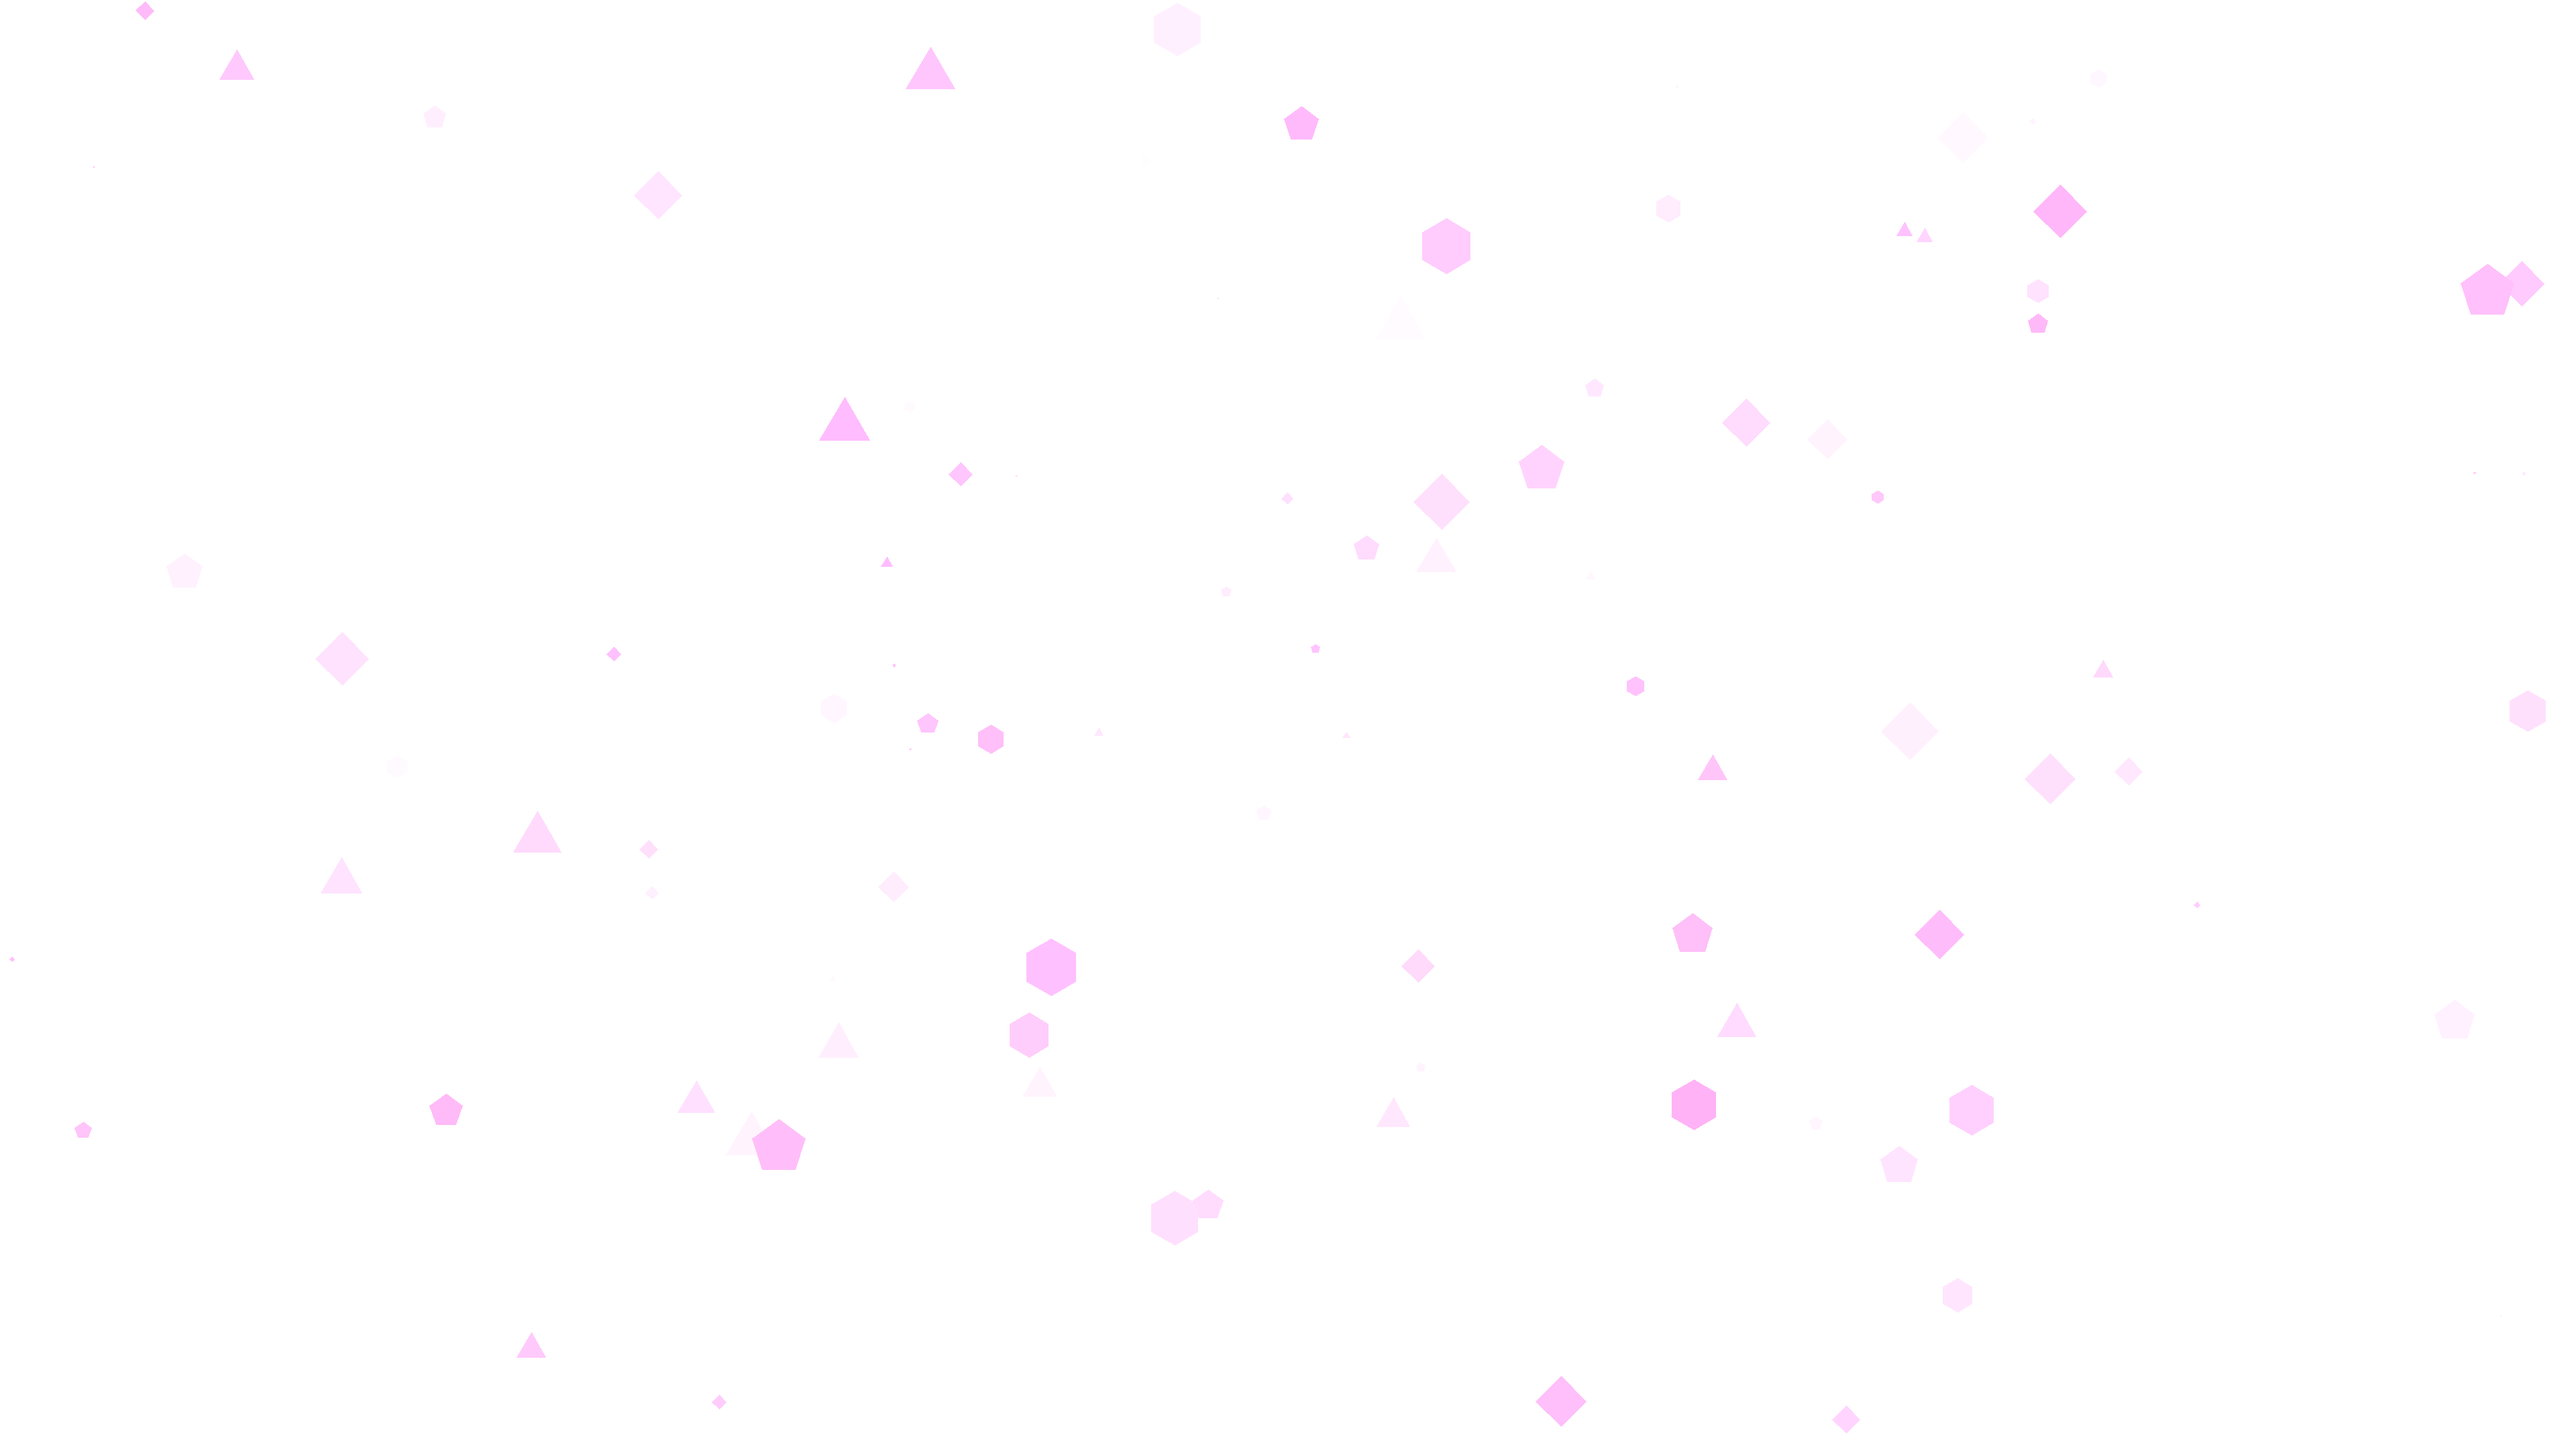
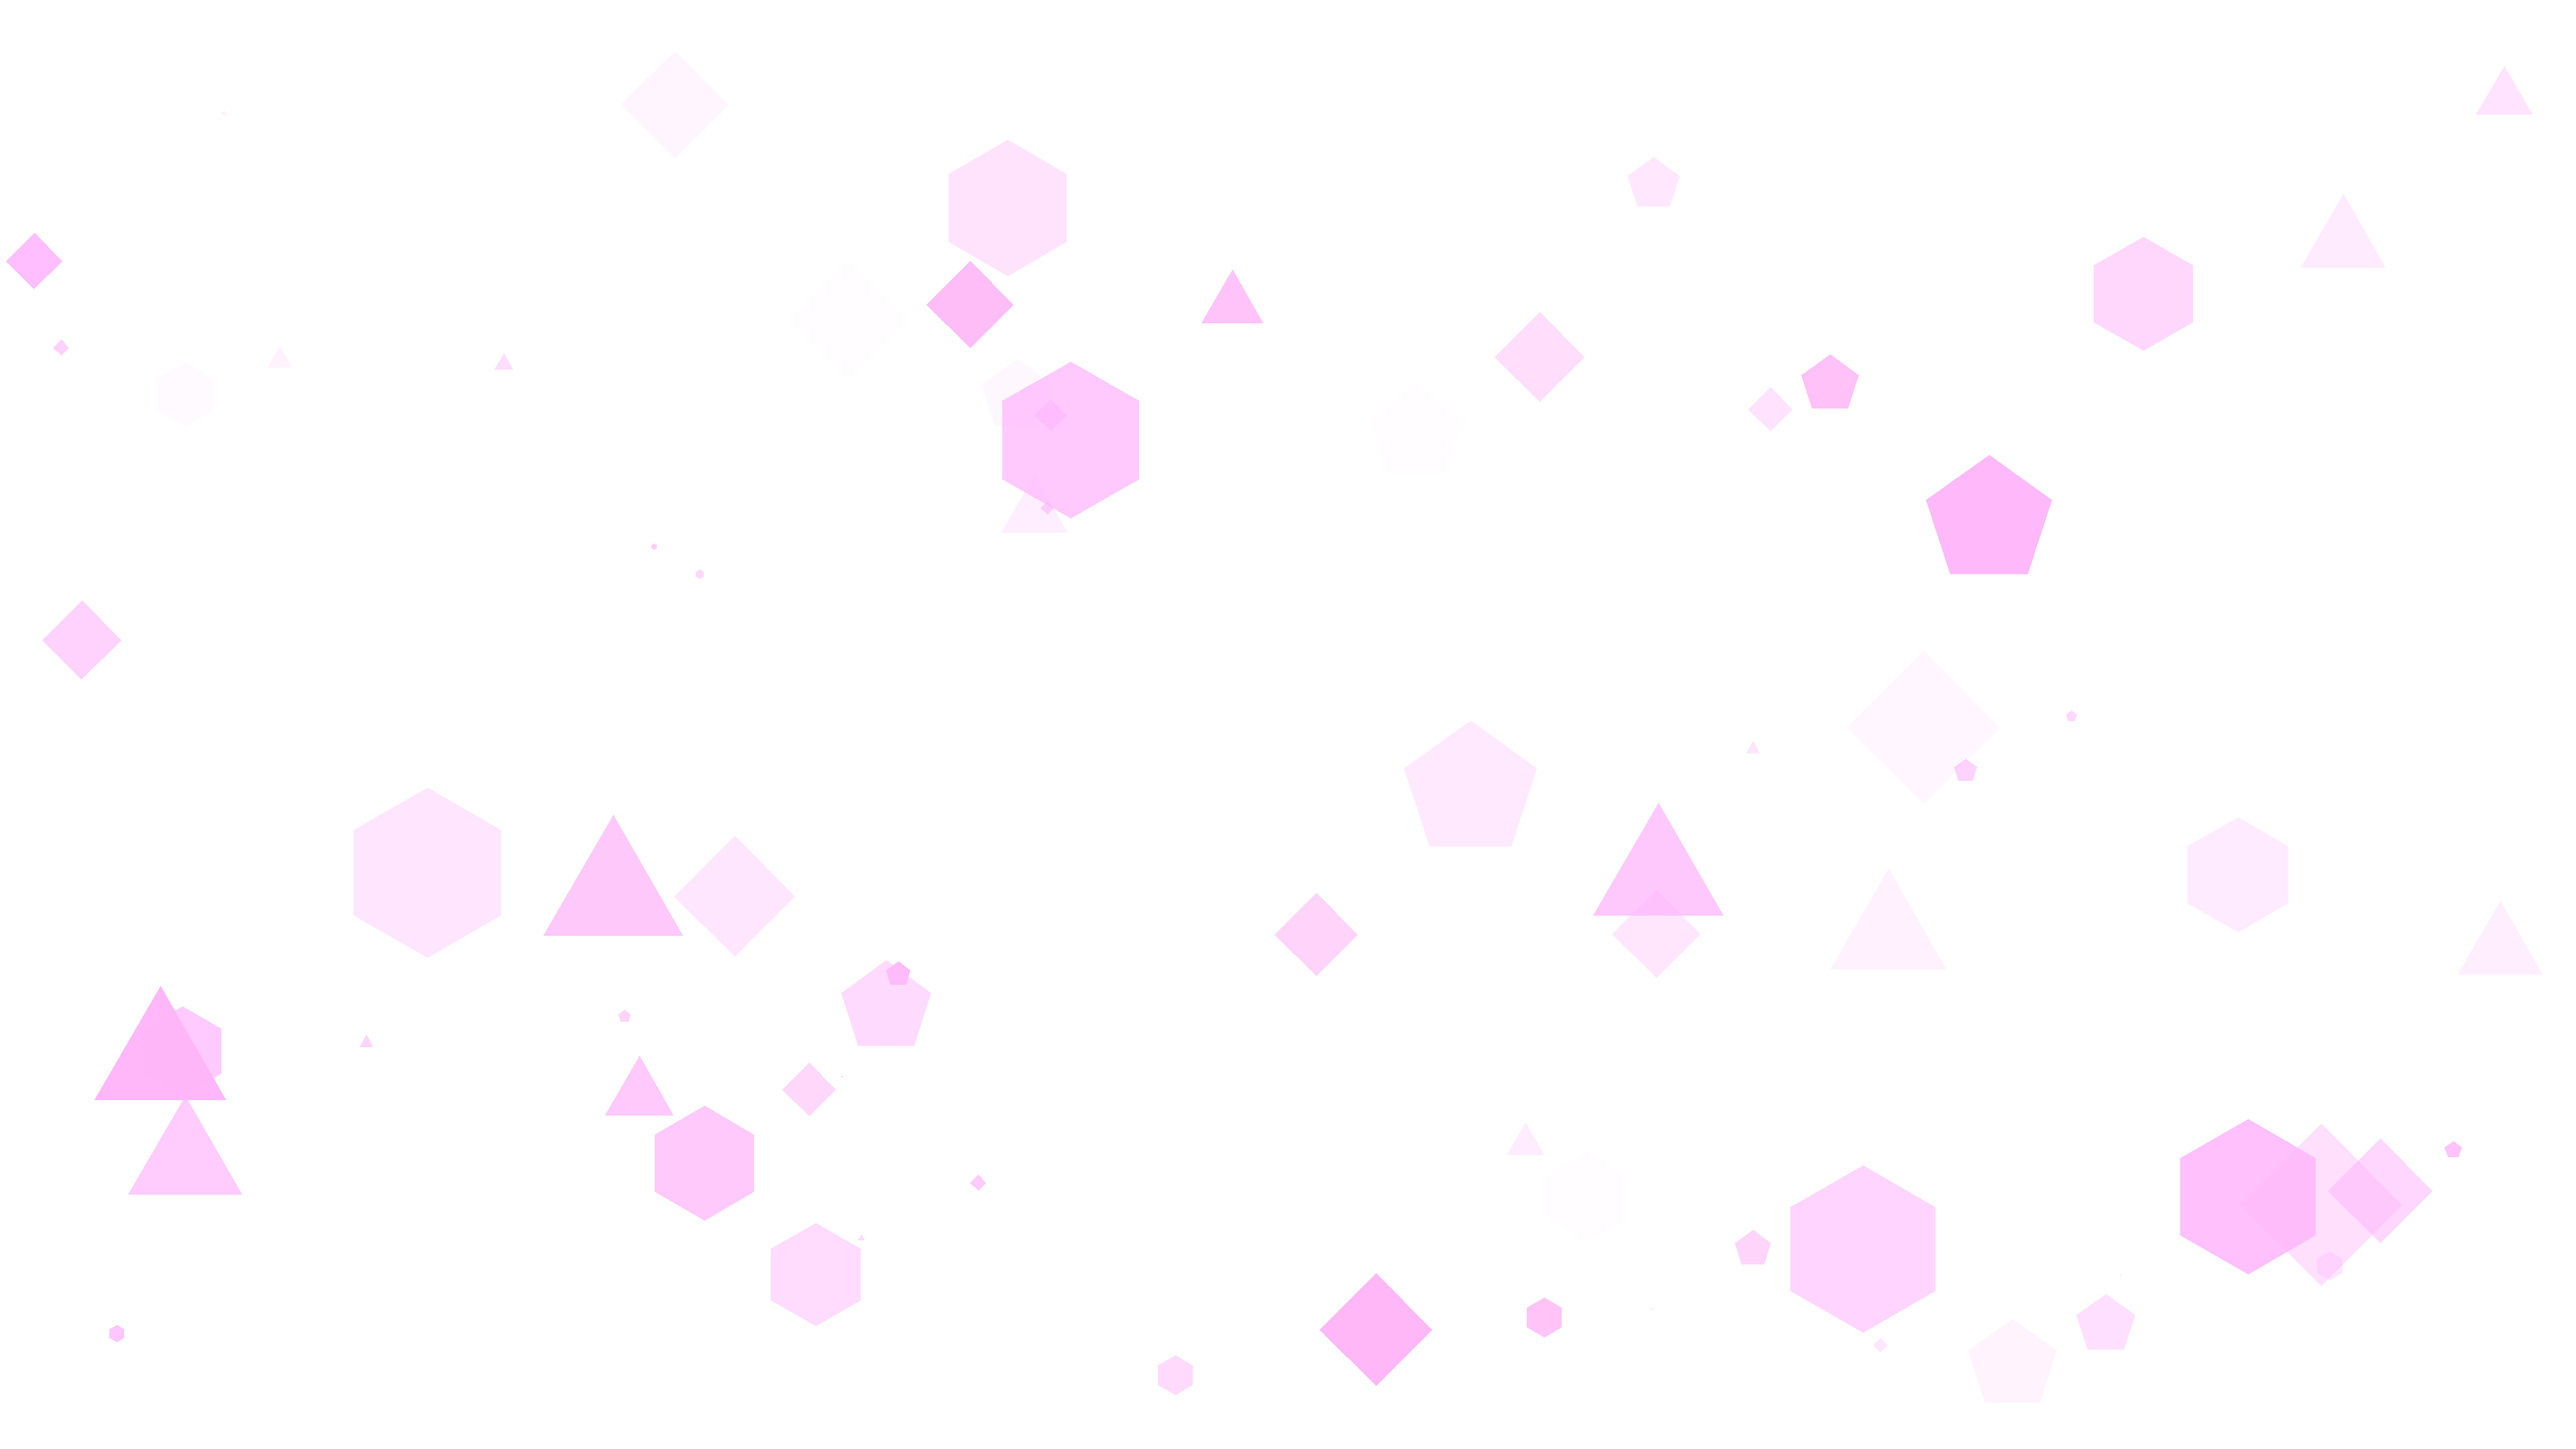
Fixed Transparency Issues

diff --git a/assets/images/generaterandomshapes.py b/assets/images/generaterandomshapes.py
@@ -4,7 +4,7 @@ import random
 # Layer 1 Settings
 # size = (1920*2,1080*2)
 # scale = 3
-# shapes = 50
+# shapes = 75
 # pointrange = (3,6)
 # rotationrange = (180,180)
 # opacityrange = (0,255)
@@ -16,7 +16,7 @@ import random
 # Layer 2 Settings
 # size = (1920*2,1080*2)
 # scale = 2
-# shapes = 75
+# shapes = 125
 # pointrange = (3,6)
 # rotationrange = (180,180)
 # opacityrange = (0,255)
@@ -28,7 +28,7 @@ import random
 # Layer 3 Settings
 # size = (1920*2,1080*2)
 # scale = 1
-# shapes = 100
+# shapes = 175
 # pointrange = (3,6)
 # rotationrange = (180,180)
 # opacityrange = (0,255)
@@ -40,7 +40,7 @@ import random
 
 size = (1920*2,1080*2)
 scale = 3
-shapes = 500
+shapes = 75
 pointrange = (3,6)
 rotationrange = (180,180)
 opacityrange = (0,255)
@@ -48,13 +48,18 @@ brightnessrange = (0,10)
 redrange = (255,255)
 greenrange = (179,179)
 bluerange = (246,246)
-im = Image.new('RGBA', size)
 
-draw = ImageDraw.Draw(im)
+
+
+
+
+
+im = Image.new('RGBA', size)
+draw = ImageDraw.Draw(im,'RGBA')
 drawnshapes = 0
-drawnpoints = []
-drawnscales = []
 while drawnshapes < shapes:
+	layer = Image.new('RGBA', size)
+	draw = ImageDraw.Draw(layer)
 	brightness = random.randint(brightnessrange[0],brightnessrange[1])
 	color = (random.randint(redrange[0],redrange[1])+brightness,random.randint(greenrange[0],greenrange[1])+brightness,random.randint(bluerange[0],bluerange[1])+brightness,random.randint(opacityrange[0],opacityrange[1]))
 	r = color[0]
@@ -90,19 +95,16 @@ while drawnshapes < shapes:
 				break
 		else:
 			isoutofbounds=True
-			break
-		for centerindex in range(len(center)):
-			if drawnpoints[centerindex][centerindex][0]-scalerand[centerindex] > pointx:
-				if drawnpoints[centerindex][centerindex][0]+scalerand[centerindex] < pointx:
-					isoutofbounds=True
-			if drawnpoints[centerindex][centerindex][1]-scalerand[centerindex] > pointy:
-				if drawnpoints[centerindex][centerindex][1]+scalerand[centerindex] < pointy:
-					isoutofbounds=True
+			break	
 		pointlist.append((pointx,pointy))
+		
 	if isoutofbounds != True:
 		draw.polygon(pointlist, fill = color)
-		drawnpoints.append(center)
-		drawnscales.append(scalerand)
 		drawnshapes=drawnshapes+1
+		
+		# boundingboxpointx = (center[0]-scalerand*scale*size[1]/50000,center[1]-scalerand*scale*size[1]/50000)
+		# boundingboxpointy = (center[0]+scalerand*scale*size[1]/50000,center[1]+scalerand*scale*size[1]/50000)
+		# draw.rectangle((boundingboxpointx,boundingboxpointy), outline="white",width=10)
+		im = Image.alpha_composite(im, layer)
 
 im.save("output.png")
